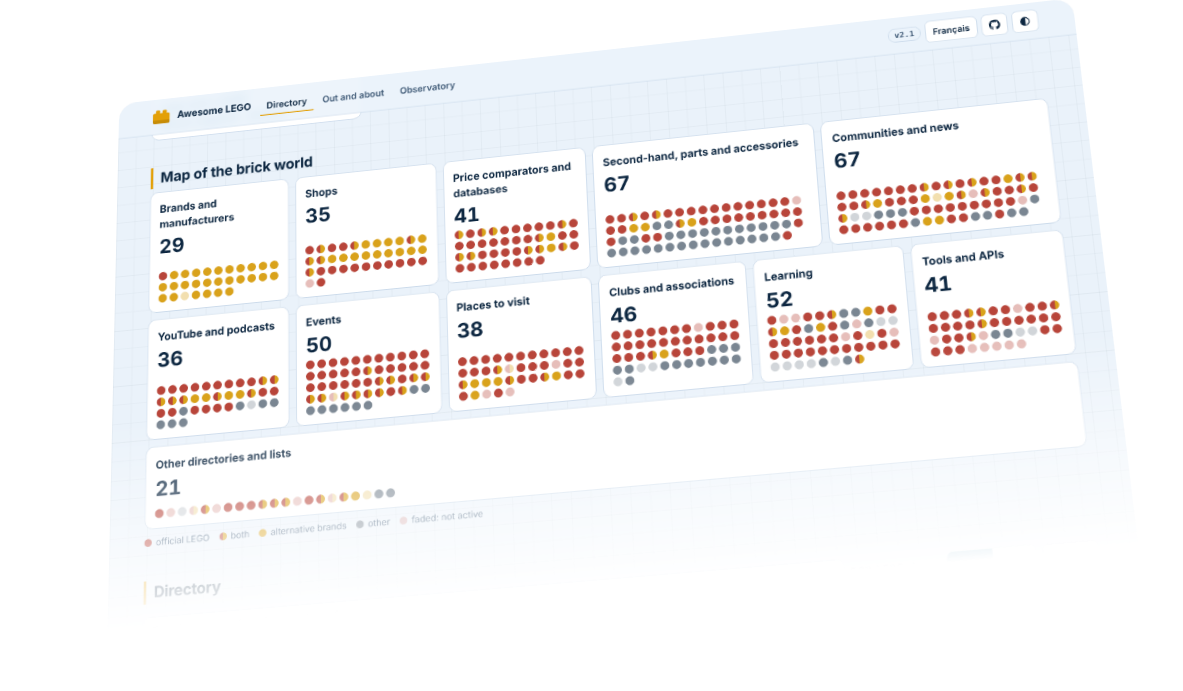
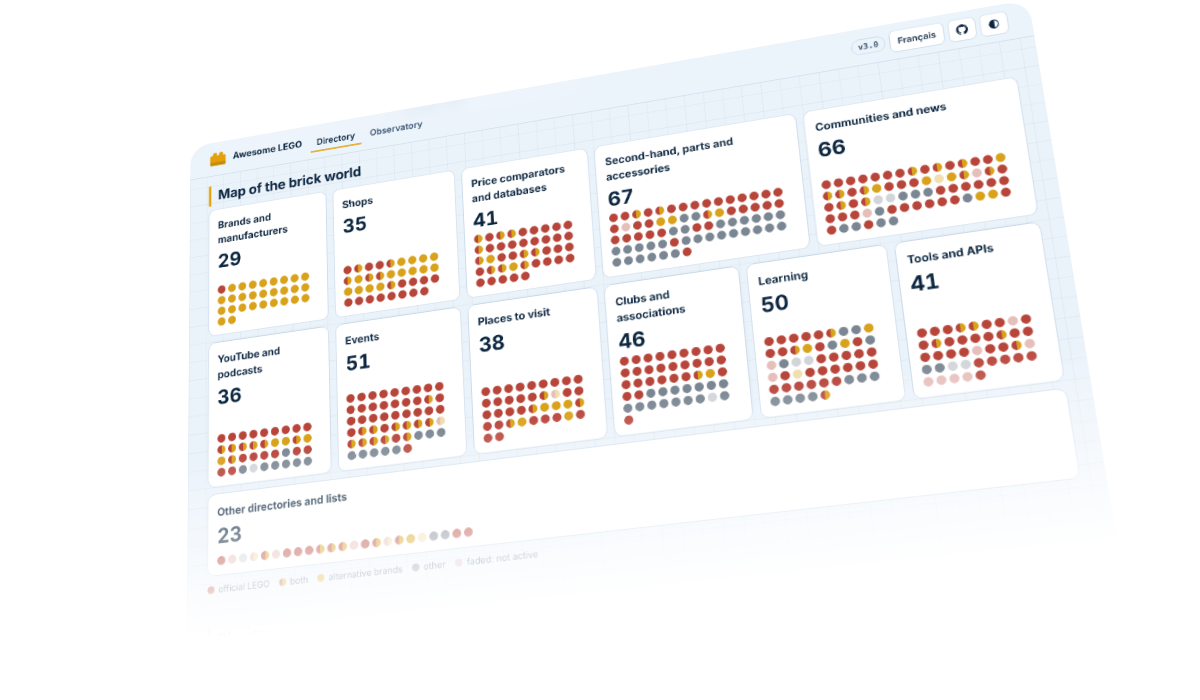
v3.0: structure and rules (lot 3a)
Claude-Session: https://claude.ai/code/session_01FDTU2Ak7S6AYUcw2MUmrRS

diff --git a/CHANGELOG.md b/CHANGELOG.md
@@ -1,5 +1,10 @@
 # Changelog
 
+# v3.x — The directory remodelled around what a visitor needs: "Where to start" by need, each brand on a banner of its own, cards whose every line is a structured field, and rules of writing checked by the build.
+
+## v3.0 — 2026-11-24
+Removed: the "Out and about" view (map, calendar, list near me, place search through OpenStreetMap's Nominatim, location), its calendar file `agenda.ics` (its subscribers now get an error), `media/basemap.json`, `scripts/basemap.py`, `scripts/geocode.py` and the city coordinates of `data/backend/geocode.json`; `#out`, `#agenda` and `#near-me` open "Where to start", and the next edition stays on each event's card. The free text of business models is no longer shown. Website: "Where to start" in 10 needs, each with the icon of its category, the reference of the visitor's country first (national calendar, directory of clubs, comparator, marketplace), then entries and the whole category; brand mode opens on a banner of the brand with its logo (27 brands; LEGO included, with the sites and places of the LEGO Group and under the LEGO brand and a button to every entry of official LEGO scope), and a brand's card ends with "All about <brand> · n entries"; cards show statuses as plain phrases (closed, no longer updated, published in 2016…), an access label that means what it says for each category (free entry, membership fee, account required…), dates with the month in letters, a legend of city and country, size, next edition and funding, and the other entries of the same site; the country list counts what the other filters leave; strengths and weaknesses come from `details.json`, read after the page (the list shows 17 % sooner on a slow phone), and are still found by the search. Data: every group has a `rank_scope`; new fields `rank` (with its reasons), `operator`, structured `size`, `city_fr` and `city_local` (Vienna, Antwerp, Cologne… found by their English, French and local names); `data/journeys.toml` describes needs; the rules of writing (the brand in French sentences, dates in letters, a card text of 35 words that does not repeat the name, group, country or tags, access by category) are checked by the build and listed by `scripts/build.py --notes`, as warnings until the content follows them. Licences: every file is covered by `REUSE.toml` and `LICENSES/`, checked by `reuse lint`; brand logos are their owners' trademarks. Source: the website's source is split into `site-src/index.html`, `style.css`, `app.js` and `strings.json`, put together at build time.
+
 # v2.x — The directory read at the source down to its links: which brands each entry deals with, how it is funded, who makes the bricks; a website in three views, directory, out and about, observatory.
 
 ## v2.17 — 2026-11-24
